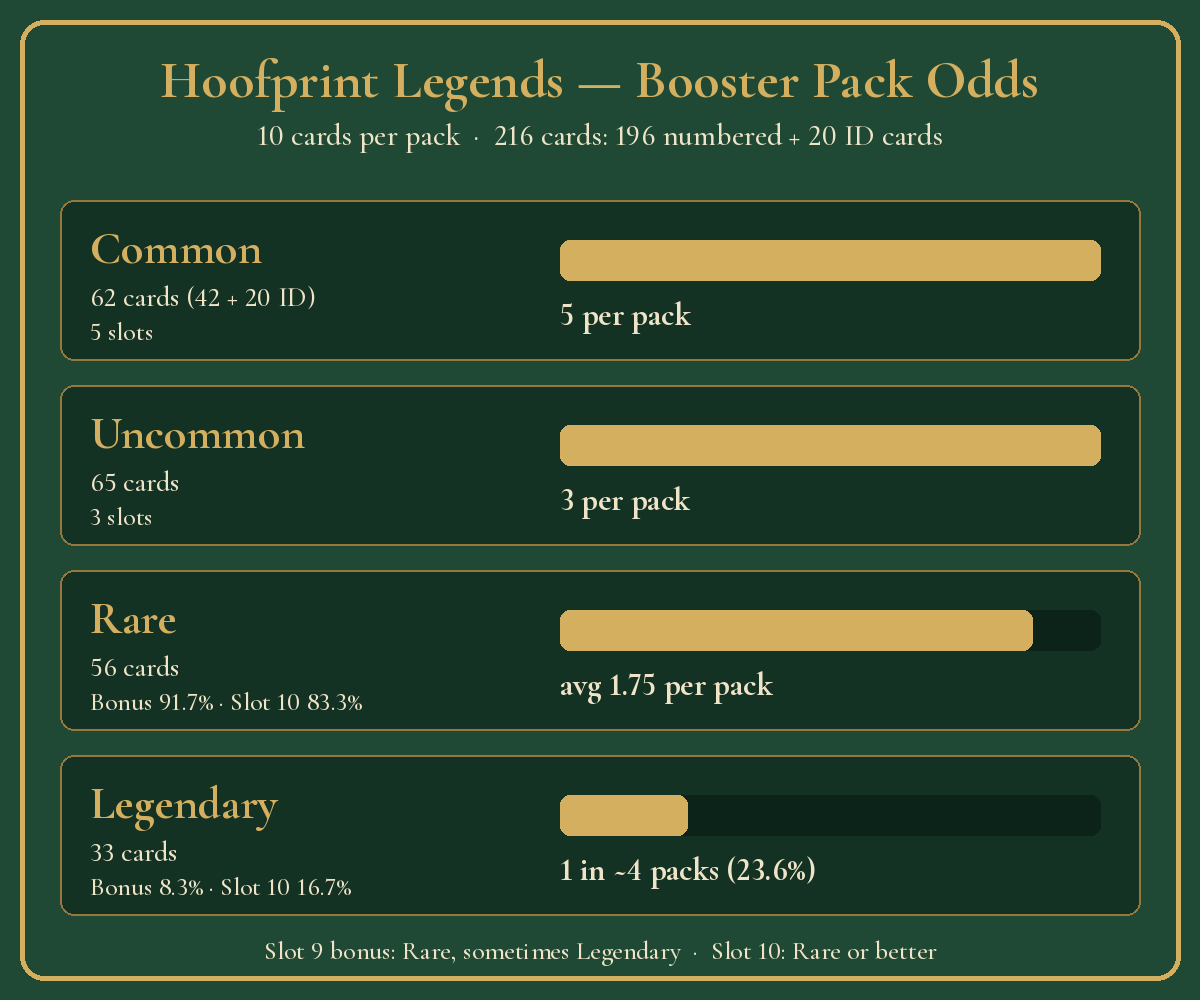
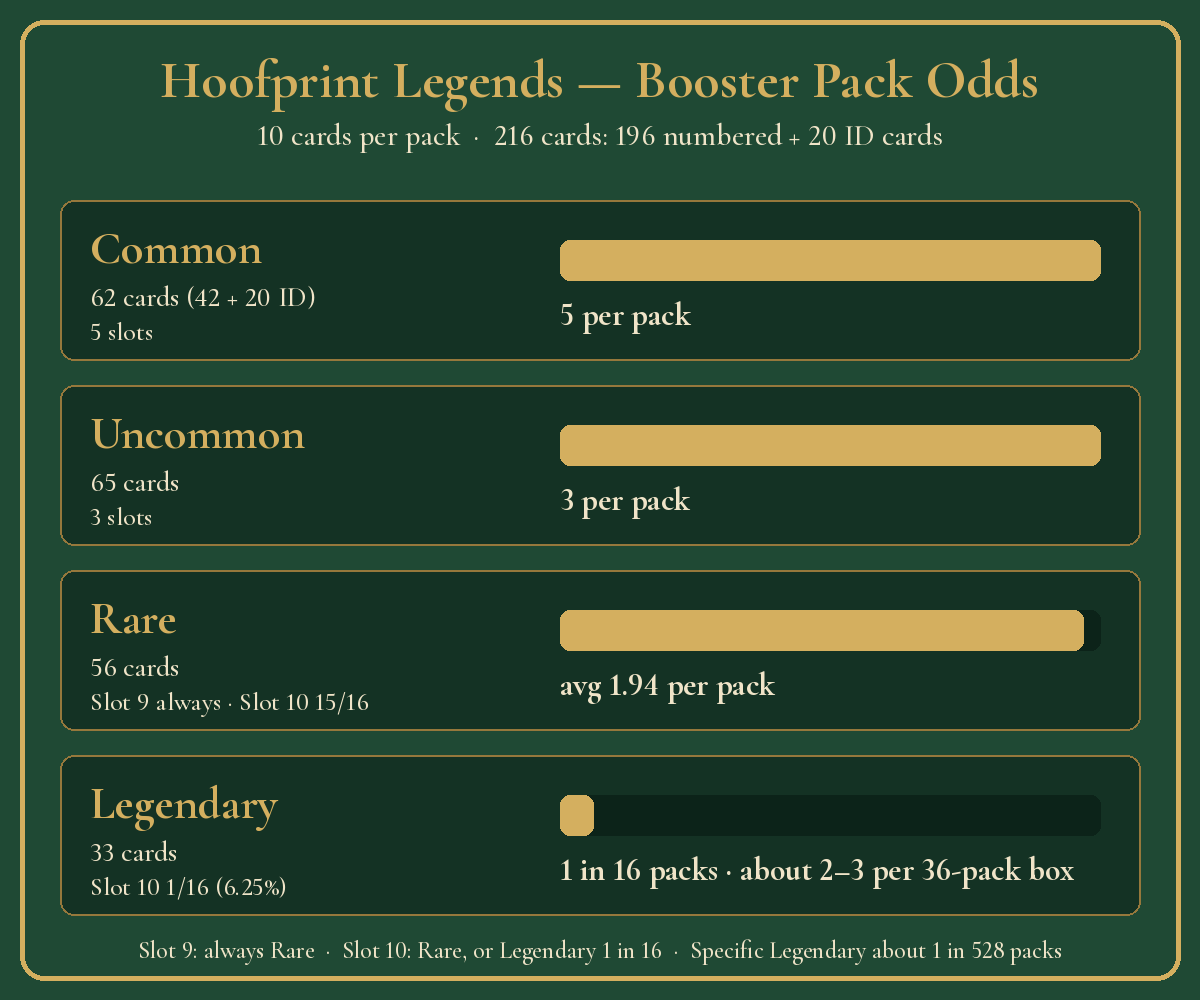
Show the pack back and the updated Hoofprint odds.
The booster row includes the pack back, the odds chart matches a Legendary about 1 in 16 packs, and the pull rates are written under the images.

diff --git a/horse-cards/index.html b/horse-cards/index.html
@@ -5,7 +5,7 @@
 <meta name="viewport" content="width=device-width, initial-scale=1">
 <title>Hoofprint Legends | Dukktape Studios</title>
 <meta name="description" content="A catalog of 196 horses. History, racing, and breeds.">
-<link rel="stylesheet" href="style.css?v=2026103136">
+<link rel="stylesheet" href="style.css?v=2026103137">
 </head>
 <body>
 <header class="top">
@@ -72,8 +72,10 @@
     <img src="packs/pack-black.jpg" width="750" height="1000" alt="Hoofprint Legends booster pack with a black horse">
     <img src="packs/pack-palomino.jpg" width="750" height="1000" alt="Hoofprint Legends booster pack with a palomino horse">
     <img src="packs/pack-chestnut.jpg" width="750" height="1000" alt="Hoofprint Legends booster pack with a chestnut horse">
+    <img src="packs/pack-back.jpg" width="750" height="1000" alt="Back of a Hoofprint Legends booster pack. Ten cards: 5 Common, 3 Uncommon, about 1 to 2 Rare, and a Legendary about 1 in 16 packs.">
   </div>
-  <img class="pack-odds" src="packs/pack-odds.png" width="1200" height="1000" alt="Hoofprint Legends booster pack odds. Ten cards per pack, across Common, Uncommon, Rare, and Legendary.">
+  <img class="pack-odds" src="packs/pack-odds.png" width="1200" height="1000" alt="Hoofprint Legends booster pack odds. Five Common, three Uncommon, about 1.94 Rare per pack, and a Legendary in 1 of 16 packs. A specific Legendary is about 1 in 528 packs.">
+  <p class="pack-note">Hoofprint Legends booster packs contain 10 cards: 5 Common (ID cards included), 3 Uncommon, 1 guaranteed Rare, and 1 Rare-or-Legendary slot (Legendary 1 in 16). That's about 1 Legendary per 16 packs, or about 2–3 per 36-pack box. Any specific Legendary is about 1 in 528 packs. Set: 62 Common, 65 Uncommon, 56 Rare, 33 Legendary (216 cards).</p>
 </section>
 <dialog id="zoom">
   <button type="button" id="zoom-close" class="close">Close</button>

diff --git a/horse-cards/style.css b/horse-cards/style.css
@@ -250,7 +250,7 @@ dialog::backdrop { background: rgba(12, 24, 16, .78); }
 .boosters h2 { margin: 0 0 8px; font-size: 1.15rem; }
 .pack-row {
   display: grid;
-  grid-template-columns: repeat(3, minmax(0, 1fr));
+  grid-template-columns: repeat(4, minmax(0, 1fr));
   gap: 12px;
   align-items: start;
 }
@@ -260,9 +260,11 @@ dialog::backdrop { background: rgba(12, 24, 16, .78); }
   height: auto;
 }
 .pack-odds { margin-top: 14px; }
+.pack-note { margin: 14px 0 0; max-width: 46rem; line-height: 1.45; }
 footer { text-align: center; padding: 18px 10px 28px; font-weight: 700; }
 @media (max-width: 600px) {
   .grid { grid-template-columns: 1fr; gap: 12px; }
+  .pack-row { grid-template-columns: repeat(2, minmax(0, 1fr)); }
 }
 @media print {
   @page { size: letter portrait; margin: 0.22in; }
